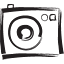
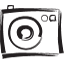
Доделано Сохранение при закрытии программы, Сохранение в текущий файл, замена текущих элементов при Открытии нового файла, заменил Иконки, теперь мы еще круче :) Почти закрыл 4й issue, осталось правильно Сохранять файл после удаления или изменения элементов. Ну и плюс стрелки после формализации.

diff --git a/usecasediagram/mainwindow.cpp b/usecasediagram/mainwindow.cpp
@@ -31,10 +31,10 @@ MainWindow::MainWindow()
      QTextCodec::setCodecForTr(codec);
 
     // создаём экшены
-
+     
     createActions();
-
-
+    isEnd = false;
+    filename = "";
 
     // createToolBox();
 
@@ -102,7 +102,32 @@ MainWindow::MainWindow()
 
 //! [0]
 
+void MainWindow::closeEvent(QCloseEvent *event) {
+    if(scene->isChanged()) {
+        QMessageBox msgBox;
+        msgBox.setText(tr("Сохранить"));
+        msgBox.setInformativeText(tr("Вы хотите сохранить текущую диаграмму?"));
+        QPushButton save(tr("Сохранить"));
+        QPushButton dont(tr("Не сохранять"));
+        QPushButton cancel(tr("Отменить"));
 
+        msgBox.setDefaultButton(&save);
+
+        msgBox.addButton(&save,QMessageBox::RejectRole);
+        msgBox.addButton(&dont,QMessageBox::AcceptRole);
+        msgBox.addButton(&cancel,QMessageBox::NoRole);
+        int res = msgBox.exec();
+
+        if(res == 0) {          // Save
+            on_saveAction();
+        }
+        else if(res == 6) {     // Cancel
+            isEnd = false;
+            return;
+        }
+    }
+    isEnd = true;
+}
 
 //! [2]
 
@@ -140,44 +165,24 @@ void MainWindow::buttonGroupClicked(int id)
 
 //! [3]
 
-void MainWindow::deleteItem()
-
-{
-
+void MainWindow::deleteItem() {
     foreach (QGraphicsItem *item, scene->selectedItems()) {
-
         if (item->type() == Arrow::Type) {
-
             scene->removeItem(item);
-
            /* Arrow *arrow = qgraphicsitem_cast<Arrow *>(item);
-
             arrow->startItem()->removeArrow(arrow);
-
             arrow->endItem()->removeArrow(arrow);*/
-
             delete item;
-
         }
-
     }
 
-
-
     foreach (QGraphicsItem *item, scene->selectedItems()) {
-
          if (item->type() == DiagramItem::Type) {
-
              qgraphicsitem_cast<DiagramItem *>(item)->removeArrows();
-
          }
-
          scene->removeItem(item);
-
          delete item;
-
      }
-
 }
 
 //! [3]
@@ -771,13 +776,15 @@ void MainWindow::on_saveToPicAction()
 }
 
 void MainWindow::on_saveAction() {
-    QString filename = QFileDialog::getSaveFileName(this, QString("Сохранить файл"), QDir::currentPath(), QString("Use case diagram(*.vox)"));
- 
+    if(filename == "") {
+        filename = QFileDialog::getSaveFileName(this, tr("Сохранить файл"), QDir::currentPath(), tr("Use case diagram(*.vox)"));
+    }
     //check file
     QFile file(filename);
     if(!file.open(QIODevice::WriteOnly)) {
+        filename = "";
         QMessageBox msgBox;
-        msgBox.setText("Не возможно сохранить файл");
+        msgBox.setText(tr("Невозможно сохранить файл") + filename);
         msgBox.exec();
         return;
     }
@@ -813,36 +820,67 @@ void MainWindow::on_saveAction() {
     }
     
     //save image
-    output << 1;
-    output << scene->getImageItem()->getImage();
-    
+    if(scene->getImageItem() != NULL) {
+        output << 1;
+        output << scene->getImageItem()->getImage();
+    }
+    else {
+        output << 0;
+    }
     file.close();
+    scene->setNoChanged();
 }
 
 void MainWindow::on_saveAsAction() {
+    filename = QFileDialog::getSaveFileName(this, tr("Сохранить файл как..."), QDir::currentPath(), tr("Use case diagram(*.vox)"));
     on_saveAction();
 }
 
 void MainWindow::on_openAction() {
-    QString filename = QFileDialog::getOpenFileName(this, QString("Открыть файл"), QDir::currentPath(), QString("Use case diagram(*.vox)"));
+    
+    if(scene->isChanged()) {
+        QMessageBox msgBox;
+        msgBox.setText(tr("Сохранить"));
+        msgBox.setInformativeText(tr("Вы хотите сохранить текущую диаграмму?"));
+        QPushButton save(tr("Сохранить"));
+        QPushButton dont(tr("Не сохранять"));
+        QPushButton cancel(tr("Отменить"));
+
+        msgBox.setDefaultButton(&save);
+
+        msgBox.addButton(&save,QMessageBox::RejectRole);
+        msgBox.addButton(&dont,QMessageBox::AcceptRole);
+        msgBox.addButton(&cancel,QMessageBox::NoRole);
+        int res = msgBox.exec();
+
+        if(res == 0) {          // Save
+            on_saveAction();
+        }
+        else if(res == 6) {     // Cancel
+            return;
+        }
+    }
+    
+    filename = QFileDialog::getOpenFileName(this, tr("Открыть файл"), QDir::currentPath(), tr("Use case diagram(*.vox)"));
     
     //check file
     if(!QFile::exists(filename)) {
         QMessageBox msgBox;
-        msgBox.setText(filename);
+        msgBox.setText(tr("Не существует файла ") + filename);
         msgBox.exec();
         return;
     }
     QFile file(filename);
     if(!file.open(QIODevice::ReadOnly)) {
         QMessageBox msgBox;
-        msgBox.setText(filename);
+        msgBox.setText(tr("Невозможно открыть файл ") + filename);
         msgBox.exec();
         return;
     }
     
     QDataStream input(&file);
     int size;
+    clearScene();
     
     //read ellipses
     input >> size;    

diff --git a/usecasediagram/diagramscene.cpp b/usecasediagram/diagramscene.cpp
@@ -15,6 +15,8 @@ DiagramScene::DiagramScene(QMenu *itemMenu, QObject *parent)
     myItemColor = Qt::white;
     myTextColor = Qt::black;
     myLineColor = Qt::black;  
+    changed = false;
+    imageItem = NULL;
 }
 //! [0]
 
@@ -171,7 +173,8 @@ void DiagramScene::mousePressEvent(QGraphicsSceneMouseEvent *mouseEvent)
             emit textInserted(textItem);
             ellipseItemList.append(ellipseItem);
 			/*emit textInserted(ellipseItem);*/
-			break;
+            changed = true;
+            break;
 //! [6] //! [7]
         case InsertLine:
             line = new QGraphicsLineItem(QLineF(mouseEvent->scenePos(),
@@ -179,6 +182,7 @@ void DiagramScene::mousePressEvent(QGraphicsSceneMouseEvent *mouseEvent)
             line->setPen(QPen(myLineColor, 2));
             myLine= AssociationLine;
             addItem(line);
+            changed = true;
             break;
         case InsertLineGeneral:
             line = new QGraphicsLineItem(QLineF(mouseEvent->scenePos(),
@@ -186,6 +190,7 @@ void DiagramScene::mousePressEvent(QGraphicsSceneMouseEvent *mouseEvent)
             line->setPen(QPen(myLineColor, 2));
             myLine= GeneralizationLine;
             addItem(line);
+            changed = true;
             break;
         case InsertLineDotted:
             line = new QGraphicsLineItem(QLineF(mouseEvent->scenePos(),
@@ -193,6 +198,7 @@ void DiagramScene::mousePressEvent(QGraphicsSceneMouseEvent *mouseEvent)
             line->setPen(QPen(myLineColor, 2));
             myLine= DottedLine;
             addItem(line);
+            changed = true;
             break;
 //! [7] //! [8]
         case InsertText:
@@ -209,6 +215,7 @@ void DiagramScene::mousePressEvent(QGraphicsSceneMouseEvent *mouseEvent)
             textItem->setPos(mouseEvent->scenePos());
             emit textInserted(textItem);
             textItemList.append(textItem);
+            changed = true;
             break;
             
         case InsertActor:
@@ -229,6 +236,7 @@ void DiagramScene::mousePressEvent(QGraphicsSceneMouseEvent *mouseEvent)
             actorItem->setPos(mouseEvent->scenePos());
             emit textInserted(textItem);
             actorItemList.append(actorItem);
+            changed = true;
             break;
 
         

diff --git a/usecasediagram/diagramscene.h b/usecasediagram/diagramscene.h
@@ -56,6 +56,21 @@ public:
     void addTextItemList(DiagramTextItem*);
     void addActorItemList(DiagramActorItem*);
     void setImageItem(DiagramImageItem*);
+    void clearData() {
+        ellipseItemList.clear();
+        lineItemList.clear();
+        lineItem2List.clear();
+        textItemList.clear();
+        actorItemList.clear();
+        delete imageItem;
+        imageItem = NULL;
+    }
+    void setNoChanged() {
+        changed = false;
+    }
+    bool isChanged() {
+        return changed;
+    }
 
 public slots:
     void setMode(Mode mode);
@@ -74,6 +89,7 @@ protected:
 
 private:
     bool isItemChange(int type);
+    bool changed;
 
     DiagramItem::DiagramType myItemType;
     QMenu *myItemMenu;
@@ -84,7 +100,7 @@ private:
     TypeLine myLine;
     QFont myFont;
     DiagramTextItem *textItem;
-	DiagramEllipseItem *ellipseItem;
+    DiagramEllipseItem *ellipseItem;
     QColor myTextColor;
     QColor myItemColor;
     QColor myLineColor;

diff --git a/usecasediagram/mainwindow.h b/usecasediagram/mainwindow.h
@@ -5,16 +5,9 @@
 
 
 #include <QMainWindow>
-
 #include <QFileDialog>
-
 #include "diagramitem.h"
-
-
-
-class DiagramScene;
-
-
+#include "diagramscene.h"
 
 QT_BEGIN_NAMESPACE
 
@@ -57,11 +50,15 @@ class MainWindow : public QMainWindow
 
 
 public:
-
    MainWindow();
-
-
-
+   bool isEnded(){
+       return isEnd;
+   }
+   void clearScene() {
+       scene->clear();
+       scene->clearData();
+   }
+   
 private slots:
 
     void buttonGroupClicked(int id);
@@ -119,7 +116,9 @@ private slots:
 
 
 private:
-
+    bool isEnd;
+    QString filename;
+    void closeEvent(QCloseEvent * event);
     void createToolBox();
 
     void createActions();

diff --git a/usecasediagram/main.cpp b/usecasediagram/main.cpp
@@ -12,6 +12,11 @@ int main(int argv, char *args[])
     MainWindow mainWindow;
     mainWindow.setGeometry(100, 100, 800, 500);
     mainWindow.show();
+    app.exec();
+    while(!mainWindow.isEnded()) {
+        mainWindow.show();
+        app.exec();
+    }
 
-    return app.exec();
+    return 0;
 }
